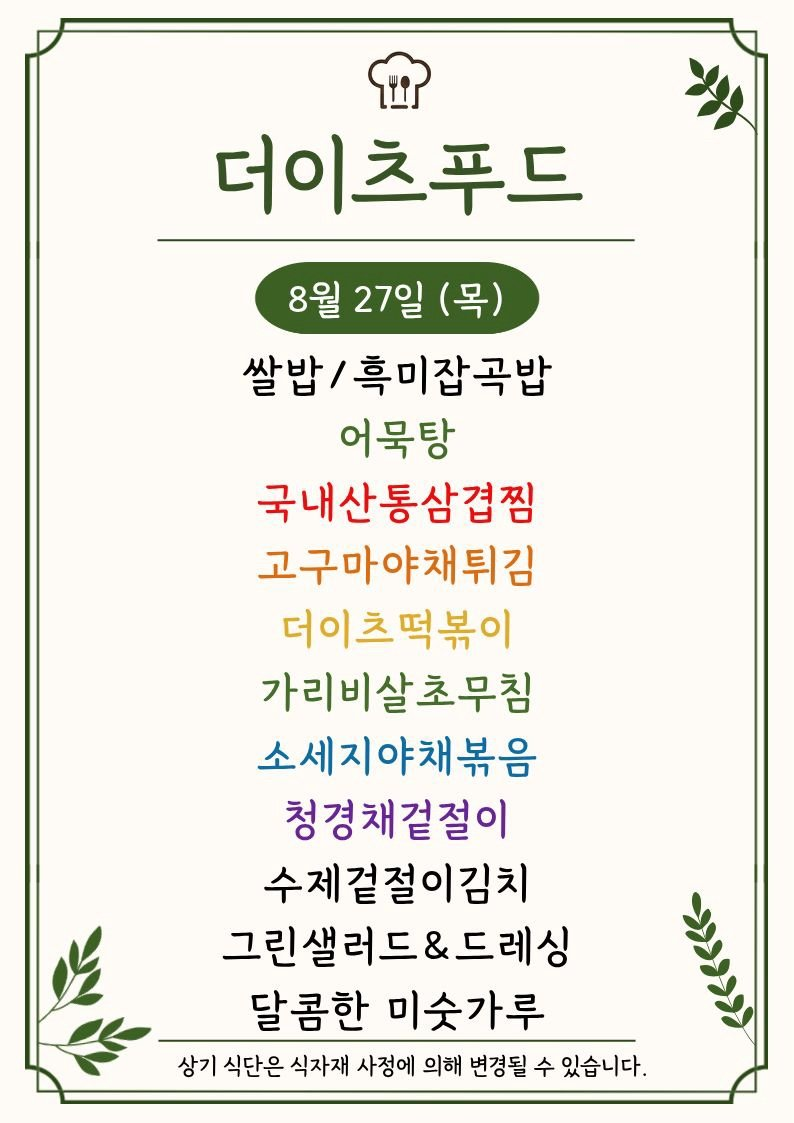
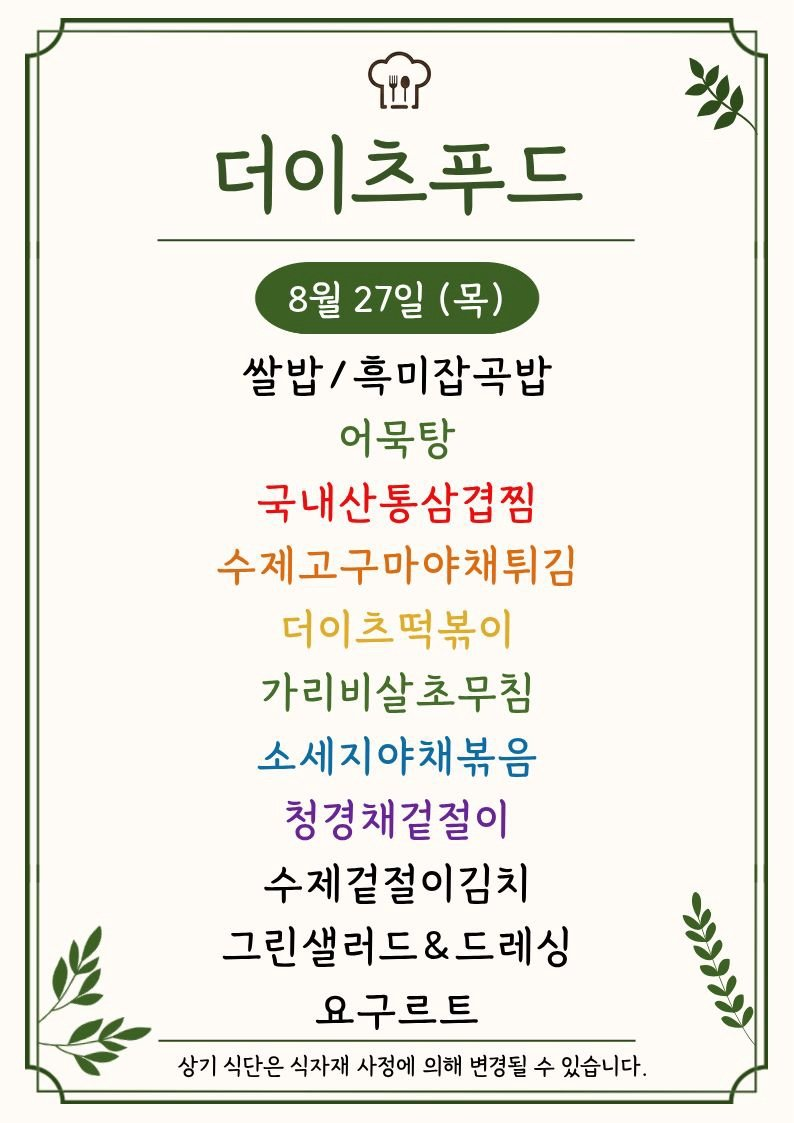
Update menu board assets

Changed region(s): [[0.272, 0.4675, 0.7254, 0.5298], [0.3023, 0.8727, 0.6952, 0.935]]

diff --git a/menu-today/index.html b/menu-today/index.html
@@ -209,7 +209,7 @@
 
     <section class="meta-bar">
       <div class="meta-card"><div class="meta-label">기준 날짜</div><div class="meta-value">2026년 8월 27일 목요일</div></div>
-      <div class="meta-card"><div class="meta-label">최종 가져온 시간</div><div class="meta-value">2026-08-27 10:18:05</div></div>
+      <div class="meta-card"><div class="meta-label">최종 가져온 시간</div><div class="meta-value">2026-08-27 10:33:01</div></div>
       <div class="meta-card"><div class="meta-label">확인 완료</div><div class="meta-value">9개 식당</div></div>
       <div class="meta-card"><div class="meta-label">준비중</div><div class="meta-value">3개 채널</div></div>
     </section>
@@ -295,7 +295,7 @@
             <div class="sub">에이스테크노타워10차</div>
           </div>
         </div>
-        <div class="menu-inline-image"><img src="./images/thefoodsketch.png" alt="더푸드스케치 식단 이미지"></div><ul><li>소고기장터국밥</li><li>데리야끼소스딘볶음</li><li>불고기고로케</li><li>= 토마토라구파스타</li><li>기 오코노미야키전</li><li>Ss 게안장조림</li><li>참치감자짜글이</li><li>브로콜리오이초회</li><li>가든샐러드 &amp; 드레싱</li><li>배추겉절이 / 음료</li></ul>
+        <div class="menu-inline-image"><img src="./images/thefoodsketch.png" alt="더푸드스케치 식단 이미지"></div><ul><li>소고기장터국밥</li><li>데리야끼소스딘볶음</li><li>불고기고로케</li><li>= 토마토라구파스타</li><li>기 오코노미야키전</li><li>Ss 게안장조림</li><li>참치감자짜글이</li><li>브로콜리오이초회</li><li>가든샐러드 / 드레싱</li><li>배추겉절이 / 음료</li></ul>
       </article>
 
       <article class="restaurant-card">

diff --git a/guro-menu/index.html b/guro-menu/index.html
@@ -32,7 +32,7 @@
   </header>
   <section class="meta">
     <div><small>기준 날짜</small><strong>2026년 8월 27일 목요일</strong></div>
-    <div><small>최종 갱신</small><strong>2026-08-27 10:18:20</strong></div>
+    <div><small>최종 갱신</small><strong>2026-08-27 10:33:13</strong></div>
     <div><small>등록 식당</small><strong>5개</strong></div>
   </section>
   <div class="notice">공개 카카오 채널의 메뉴 이미지를 자동 수집하고 OCR로 정리합니다. 텍스트에 오타가 있을 수 있으니 식단 이미지를 함께 확인해 주세요.</div>
@@ -76,7 +76,7 @@
         </div>
         <img class="menu-image" src="./images/the-eats-food.png" alt="더이츠푸드 식단 이미지" loading="lazy">
         
-        <ul><li>더이 2 ㄷ</li><li>쌀밥/흑미잡곡밥</li><li>어묵탕</li><li>국내산통삼겹찜</li><li>고구마야채튀김</li><li>가리비살초무침</li><li>소세지야채볶음</li><li>청경채겉절이</li><li>수제겉절이김치 j</li><li>그린샐러드&amp;드레싱 Y</li><li>달콤한 미숫가루</li></ul>
+        <ul><li>더이 긋고 ㄷ</li><li>쌀밥/흑미잡곡밥</li><li>어묵탕</li><li>국내산통삼겹찜</li><li>수제고구마야채튀김</li><li>가리비살초무침</li><li>소세지야채볶음</li><li>청경채겉절이</li><li>수제겉절이김치 0</li><li>그린샐러드&amp;드레싱 %</li><li>요구르트 /)</li></ul>
       </article>
 
       <article class="restaurant-card">
